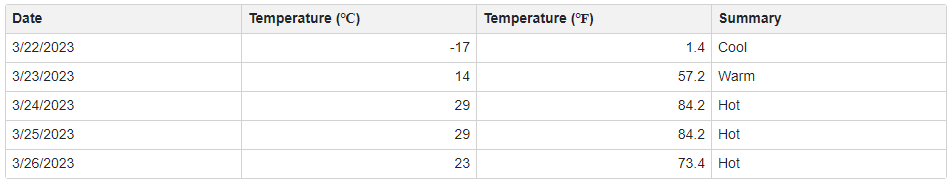
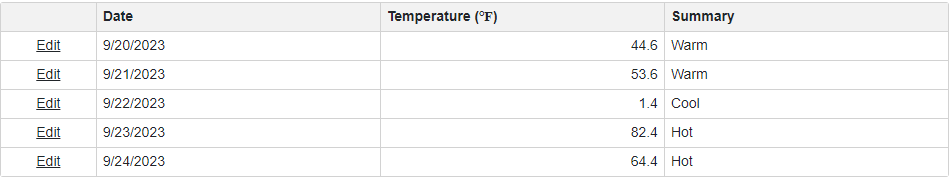
Add info about editing (#4)
* add info about editing

* remove unused file

* change header

* replace with float

* README auto update [skip ci]

---------

diff --git a/CS/BlazorGridUnboundColumns/Data/EditableWeatherForecast.cs b/CS/BlazorGridUnboundColumns/Data/EditableWeatherForecast.cs
@@ -1,0 +1,8 @@
+namespace BlazorGridUnboundColumns.Data {
+    public class EditableWeatherForecast : WeatherForecast {
+        public float TemperatureF {
+            get => (float)((base.TemperatureC / 0.5556) + 32);
+            set => base.TemperatureC = (float)((value - 32) * 0.5556);
+        }
+    }
+}

diff --git a/CS/BlazorGridUnboundColumns/Data/WeatherForecast.cs b/CS/BlazorGridUnboundColumns/Data/WeatherForecast.cs
@@ -2,6 +2,6 @@ namespace BlazorGridUnboundColumns.Data {
     public class WeatherForecast {
         public DateTime Date { get; set; }
 
-        public int TemperatureC { get; set; }
+        public float TemperatureC { get; set; }
     }
 }

diff --git a/README.md b/README.md
@@ -1,9 +1,8 @@
 <!-- default badges list -->
-![](https://img.shields.io/endpoint?url=https://codecentral.devexpress.com/api/v1/VersionRange/616967538/23.1.3%2B)
 [![](https://img.shields.io/badge/Open_in_DevExpress_Support_Center-FF7200?style=flat-square&logo=DevExpress&logoColor=white)](https://supportcenter.devexpress.com/ticket/details/T1154960)
 [![](https://img.shields.io/badge/📖_How_to_use_DevExpress_Examples-e9f6fc?style=flat-square)](https://docs.devexpress.com/GeneralInformation/403183)
 <!-- default badges end -->
-# Blazor Grid - Create unbound columns
+# Blazor Grid - Create and edit unbound columns
 
 The Grid allows you to add [unbound columns](https://docs.devexpress.com/Blazor/DevExpress.Blazor.DxGridDataColumn.UnboundType) whose values are not stored in the assigned data collection.
 
@@ -11,8 +10,16 @@ The Grid allows you to add [unbound columns](https://docs.devexpress.com/Blazor/
 
 You can calculate column values in two ways:
 
-* Specify the [UnboundExpression](https://docs.devexpress.com/Blazor/DevExpress.Blazor.DxGridDataColumn.UnboundExpression) property to calculate unbound column values based on other column values. In this example, the **TemperatureF** column uses this property to fill its cells.
-* Handle the [UnboundColumnData](https://docs.devexpress.com/Blazor/DevExpress.Blazor.DxGrid.UnboundColumnData) event to supply unique column values based on custom logic. In this example, the **Summary** column uses this event to fill its cells.
+* Specify the [UnboundExpression](https://docs.devexpress.com/Blazor/DevExpress.Blazor.DxGridDataColumn.UnboundExpression) property to calculate unbound column values based on other column values. In this example, the [TemperatureF](/CS/BlazorGridUnboundColumns/Pages/Index.razor#L15) column uses this property to fill its cells.
+* Handle the [UnboundColumnData](https://docs.devexpress.com/Blazor/DevExpress.Blazor.DxGrid.UnboundColumnData) event to supply unique column values based on custom logic. In this example, the [Summary](/CS/BlazorGridUnboundColumns/Pages/Index.razor#L19) column uses this event to fill its cells.
+
+You can also implement an editable unbound column. Follow the steps below:
+
+* Create a [derived class](/CS/BlazorGridUnboundColumns/Data/EditableWeatherForecast.cs) from the class that implements your business object.
+* In the derived class, override properties that are used to calculate unbound column values. These overrides should map cell values and the base property.
+* Specify the [EditFormTemplate](https://docs.devexpress.com/Blazor/DevExpress.Blazor.DxGrid.EditFormTemplate).
+* Handle the [CustomizeEditModel](https://docs.devexpress.com/Blazor/DevExpress.Blazor.DxGrid.CustomizeEditModel) event to use derived class for editing.
+* Handle the [EditModelSaving](https://docs.devexpress.com/Blazor/DevExpress.Blazor.DxGrid.EditModelSaving) event to apply changes to you data source.
 
 ## Files to Review
 
